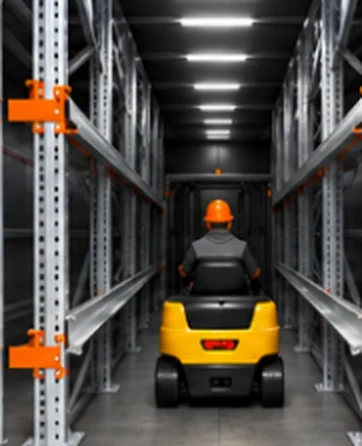
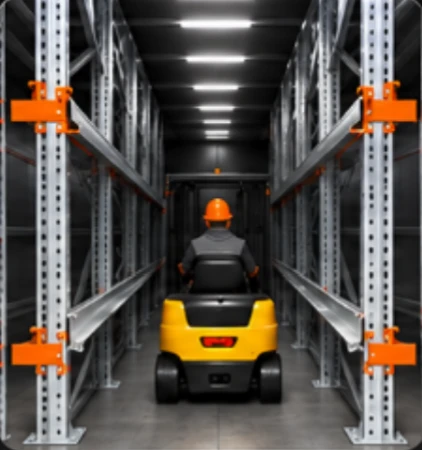
Первое фото шагов глубинных стеллажей по центру

diff --git a/glubinnye-stellazhi.html b/glubinnye-stellazhi.html
@@ -243,7 +243,7 @@
     <div class="container">
       <h2 class="h2 dp-h2--line">Как работает глубинный стеллаж</h2>
       <ol class="dp-steps">
-        <li class="dp-step"><img class="dp-step__img" src="img/deep/step1.webp?v=2" width="362" height="446" alt="Погрузчик заезжает в канал" loading="lazy"><span class="dp-step__n">1</span><p>Погрузчик заезжает в канал</p></li>
+        <li class="dp-step"><img class="dp-step__img" src="img/deep/step1.webp?v=4" width="422" height="450" alt="Погрузчик заезжает в канал" loading="lazy"><span class="dp-step__n">1</span><p>Погрузчик заезжает в канал</p></li>
         <li class="dp-step"><img class="dp-step__img" src="img/deep/step2.webp?v=2" width="400" height="446" alt="Размещает паллету на направляющих" loading="lazy"><span class="dp-step__n">2</span><p>Размещает паллету на направляющих (консолях)</p></li>
         <li class="dp-step"><img class="dp-step__img" src="img/deep/step3.webp?v=2" width="400" height="446" alt="Движется вглубь канала" loading="lazy"><span class="dp-step__n">3</span><p>Двигается вглубь канала</p></li>
         <li class="dp-step"><img class="dp-step__img" src="img/deep/step4.webp?v=2" width="400" height="446" alt="Заполняет канал паллетами в глубину" loading="lazy"><span class="dp-step__n">4</span><p>Заполняет канал паллетами в глубину</p></li>
